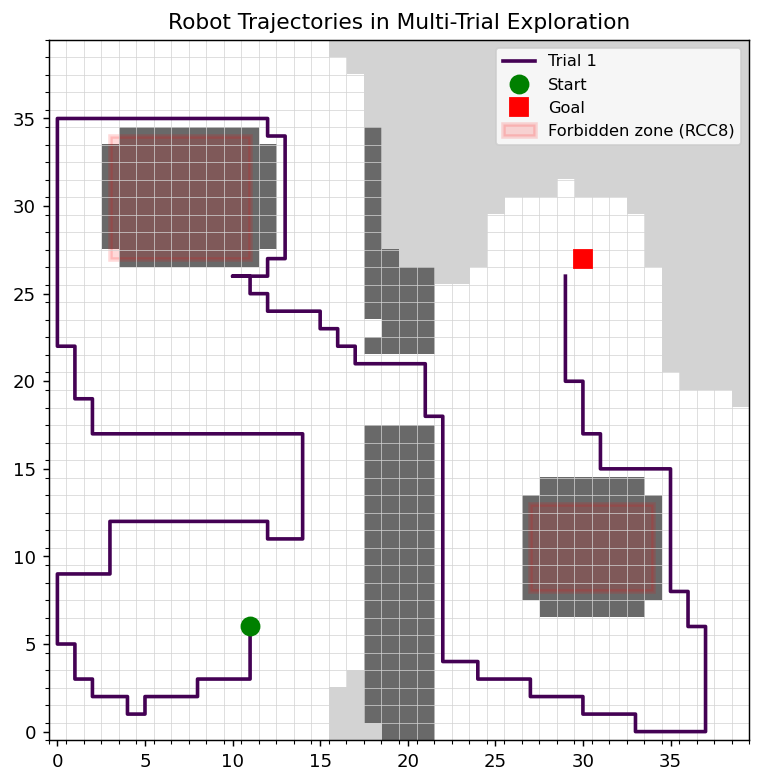
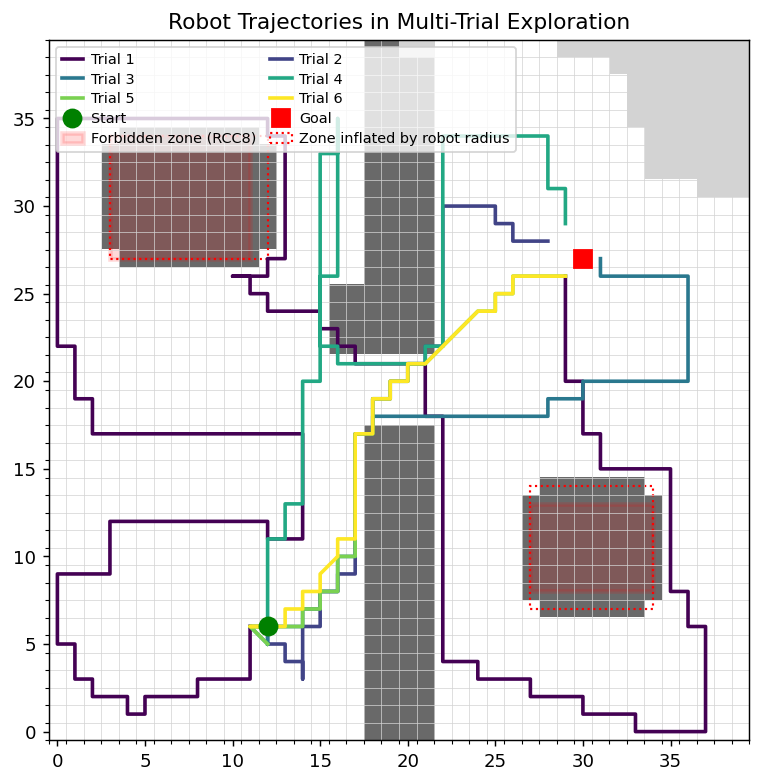
update some code and image and experimental data

diff --git a/Dissertation coding files/10.A*_penaltyFunction.py b/Dissertation coding files/10.A*_penaltyFunction.py
@@ -256,7 +256,7 @@ def planning_map(known_map, forbidden_mask=None, temp_obstacle=None):
         m[temp_obstacle == 1] = OCCUPIED
     return m
 
-PUSH_PENALTY = 0 # extra cost for pushing a movable object(means more 15 grid cells)
+PUSH_PENALTY = 3 # extra cost for pushing a movable object(means more 15 grid cells)
 cost_map = np.zeros((H, W)) # cost map for A* planning, default 0 for free space
 
 # ---------- robot pathfinding plan ----------
@@ -414,9 +414,9 @@ for trial in range(1, NUM_TRIALS + 1):
                             temp_obstacle[rr, cc] = 1 
                     print(f">>> MOVABLE_BOX is not pushable, pass around")
                 judged_objects.add("MOVABLE_BOX")  # mark as judged
-                print(f"path length (cells) = {len(new_path)}")
-                passes_box = any(cost_map[r, c] > 0 for (c, r) in new_path)
-                print(f"path passes through box (push it?) {passes_box}")
+                # print(f"path length (cells) = {len(new_path)}")
+                # passes_box = any(cost_map[r, c] > 0 for (c, r) in new_path)
+                # print(f"path passes through box (push it?) {passes_box}")
                 waypoints = []          # empty the old exploration path, force replanning towards the target
         # ---- monitor RCC8 relation in real-time ----
         robot_fp = Point(ep[0], ep[1]).buffer(ROBOT_RADIUS)
@@ -464,6 +464,14 @@ for trial in range(1, NUM_TRIALS + 1):
                 waypoints = [grid_to_world(c, r) for (c, r) in new_path]
                 wp_index = 1 if len(waypoints) > 1 else 0
                 replan_count += 1
+                # --- penalty decision statistics ---
+                if "MOVABLE_BOX" in judged_objects and goal_found:
+                    n = sum(1 for (c, r) in new_path if cost_map[r, c] > 0)
+                    decision = "PUSH" if n > 0 else "DETOUR"
+                    L = sum(math.hypot(new_path[i+1][0]-new_path[i][0],new_path[i+1][1]-new_path[i][1])
+                            for i in range(len(new_path)-1))
+                    print(f"[penalty={PUSH_PENALTY}] cells={len(new_path)},"
+                          f"geometric length={L:.2f}, n={n}, decision={decision}")
 
         # ---- judge whether goal is reached ----
         if goal_found:
@@ -509,16 +517,38 @@ for trial in range(1, NUM_TRIALS + 1):
         f.write(f"path length: {path_len:.3f}\t replan count: {replan_count}\n")
     print(f">>> Trial {trial}: path {path_len:.2f} m, replanned {replan_count}, memory saved to {MEMORY_PATH}.")
 
+# ---- Plan twice with different penalties for comparison ----
+def plan_with_penalty(P):
+    cm = np.zeros((H, W))
+    for rr in range(max(0, r_min), min(H, r_max + 1)):
+        for cc in range(max(0, c_min), min(W, c_max + 1)):
+            cm[rr, cc] = P
+    p = astar(planning_map(known_map), start, goal, cm)
+    L = sum(math.hypot(p[i+1][0]-p[i][0], p[i+1][1]-p[i][1])
+            for i in range(len(p)-1))
+    n = sum(1 for (c, r) in p if cm[r, c] > 0)
+    return p, L, n
+
+path_lo, L_lo, n_lo = plan_with_penalty(3.0)
+path_hi, L_hi, n_hi = plan_with_penalty(3.5)
+print(f"P=3.0: length={L_lo:.2f}, n={n_lo}")
+print(f"P=3.5: length={L_hi:.2f}, n={n_hi}")
+
 # ---------- export grid PNG ----------
 fig, ax = plt.subplots(figsize=(7, 7))
 cmap = matplotlib.colors.ListedColormap(["lightgray", "white", "dimgray"]) # three colors for unknown, free, occupied
 ax.imshow(known_map + 1, origin="lower", cmap=cmap, vmin=0, vmax=2)
 # robot trajectory(solid line)
 colors = plt.cm.viridis(np.linspace(0, 1, len(all_trajectory)))
-for i, traj in enumerate(all_trajectory):
-    g = [world_to_grid(p[0], p[1]) for p in traj]
-    ax.plot([p[0] for p in g], [p[1] for p in g],
-            "-", color=colors[i], linewidth=2, label=f"Trial {i+1}")
+# for i, traj in enumerate(all_trajectory):
+#     g = [world_to_grid(p[0], p[1]) for p in traj]
+#     ax.plot([p[0] for p in g], [p[1] for p in g],
+#             "-", color=colors[i], linewidth=2, label=f"Trial {i+1}")
+for p, col, ls, lab in [
+        (path_lo, "#1f4e79", "-",  f"$Penalty = 3.0$  (push, $L$ = {L_lo:.1f})"),
+        (path_hi, "#c00000", "--", f"$Penalty = 3.5$  (detour, $L$ = {L_hi:.1f})")]:
+    ax.plot([c for (c, r) in p], [r for (c, r) in p],
+            ls, color=col, linewidth=2, label=lab)
 # grid line for each box
 ax.set_xticks(np.arange(-0.5, W, 1), minor=True)
 ax.set_yticks(np.arange(-0.5, H, 1), minor=True)
@@ -544,9 +574,6 @@ ax.add_patch(MplPolygon(mb_corners_grid, closed=True,
                         label="Door"))
 ax.plot(sc, sr, "go", markersize=10, label="Start")
 ax.plot(gc, gr, "rs", markersize=10, label="Goal")
-ax.text(0.98, 0.02, f"penalty={PUSH_PENALTY}", fontsize=9, 
-        transform=ax.transAxes, ha="right", va="bottom", color="black",
-        bbox=dict(boxstyle="round", facecolor="white", alpha=0.5))
 # forbidden zone (solid line)
 for i, zone in enumerate(FORBIDDEN_ZONES):
     zone_world = list(zone.exterior.coords)
@@ -555,8 +582,16 @@ for i, zone in enumerate(FORBIDDEN_ZONES):
                             facecolor="red", alpha=0.15,
                             edgecolor="red", linewidth=2.5,
                             label="Forbidden zone (RCC8)" if i == 0 else None))
-
+for i, zone in enumerate(FORBIDDEN_ZONES):
+    infl = list(zone.buffer(ROBOT_RADIUS).exterior.coords)
+    infl_grid = [world_to_grid(x, y) for x, y in infl]
+    ax.add_patch(MplPolygon(infl_grid, closed=True,
+                            facecolor="none",
+                            edgecolor="red", linewidth=1.2,
+                            linestyle=":",
+                            label="Zone inflated by robot radius" if i == 0 else None))
+                            
 ax.legend(loc="upper left", fontsize=9)
-ax.set_title("A* algorithm with Penalty")
+ax.set_title("Decision making with Penalty")
 plt.savefig("robot_astar_with_penalty.png", dpi=130, bbox_inches="tight")
 print(">>> exported robot_astar_with_penalty.png")

diff --git a/Webots_project/controllers/Astar_with_Penalty/Astar_with_Penalty.py b/Webots_project/controllers/Astar_with_Penalty/Astar_with_Penalty.py
@@ -256,7 +256,7 @@ def planning_map(known_map, forbidden_mask=None, temp_obstacle=None):
         m[temp_obstacle == 1] = OCCUPIED
     return m
 
-PUSH_PENALTY = 0 # extra cost for pushing a movable object(means more 15 grid cells)
+PUSH_PENALTY = 3 # extra cost for pushing a movable object(means more 15 grid cells)
 cost_map = np.zeros((H, W)) # cost map for A* planning, default 0 for free space
 
 # ---------- robot pathfinding plan ----------
@@ -414,9 +414,9 @@ for trial in range(1, NUM_TRIALS + 1):
                             temp_obstacle[rr, cc] = 1 
                     print(f">>> MOVABLE_BOX is not pushable, pass around")
                 judged_objects.add("MOVABLE_BOX")  # mark as judged
-                print(f"path length (cells) = {len(new_path)}")
-                passes_box = any(cost_map[r, c] > 0 for (c, r) in new_path)
-                print(f"path passes through box (push it?) {passes_box}")
+                # print(f"path length (cells) = {len(new_path)}")
+                # passes_box = any(cost_map[r, c] > 0 for (c, r) in new_path)
+                # print(f"path passes through box (push it?) {passes_box}")
                 waypoints = []          # empty the old exploration path, force replanning towards the target
         # ---- monitor RCC8 relation in real-time ----
         robot_fp = Point(ep[0], ep[1]).buffer(ROBOT_RADIUS)
@@ -464,6 +464,14 @@ for trial in range(1, NUM_TRIALS + 1):
                 waypoints = [grid_to_world(c, r) for (c, r) in new_path]
                 wp_index = 1 if len(waypoints) > 1 else 0
                 replan_count += 1
+                # --- penalty decision statistics ---
+                if "MOVABLE_BOX" in judged_objects and goal_found:
+                    n = sum(1 for (c, r) in new_path if cost_map[r, c] > 0)
+                    decision = "PUSH" if n > 0 else "DETOUR"
+                    L = sum(math.hypot(new_path[i+1][0]-new_path[i][0],new_path[i+1][1]-new_path[i][1])
+                            for i in range(len(new_path)-1))
+                    print(f"[penalty={PUSH_PENALTY}] cells={len(new_path)},"
+                          f"geometric length={L:.2f}, n={n}, decision={decision}")
 
         # ---- judge whether goal is reached ----
         if goal_found:
@@ -509,16 +517,38 @@ for trial in range(1, NUM_TRIALS + 1):
         f.write(f"path length: {path_len:.3f}\t replan count: {replan_count}\n")
     print(f">>> Trial {trial}: path {path_len:.2f} m, replanned {replan_count}, memory saved to {MEMORY_PATH}.")
 
+# ---- Plan twice with different penalties for comparison ----
+def plan_with_penalty(P):
+    cm = np.zeros((H, W))
+    for rr in range(max(0, r_min), min(H, r_max + 1)):
+        for cc in range(max(0, c_min), min(W, c_max + 1)):
+            cm[rr, cc] = P
+    p = astar(planning_map(known_map), start, goal, cm)
+    L = sum(math.hypot(p[i+1][0]-p[i][0], p[i+1][1]-p[i][1])
+            for i in range(len(p)-1))
+    n = sum(1 for (c, r) in p if cm[r, c] > 0)
+    return p, L, n
+
+path_lo, L_lo, n_lo = plan_with_penalty(3.0)
+path_hi, L_hi, n_hi = plan_with_penalty(3.5)
+print(f"P=3.0: length={L_lo:.2f}, n={n_lo}")
+print(f"P=3.5: length={L_hi:.2f}, n={n_hi}")
+
 # ---------- export grid PNG ----------
 fig, ax = plt.subplots(figsize=(7, 7))
 cmap = matplotlib.colors.ListedColormap(["lightgray", "white", "dimgray"]) # three colors for unknown, free, occupied
 ax.imshow(known_map + 1, origin="lower", cmap=cmap, vmin=0, vmax=2)
 # robot trajectory(solid line)
 colors = plt.cm.viridis(np.linspace(0, 1, len(all_trajectory)))
-for i, traj in enumerate(all_trajectory):
-    g = [world_to_grid(p[0], p[1]) for p in traj]
-    ax.plot([p[0] for p in g], [p[1] for p in g],
-            "-", color=colors[i], linewidth=2, label=f"Trial {i+1}")
+# for i, traj in enumerate(all_trajectory):
+#     g = [world_to_grid(p[0], p[1]) for p in traj]
+#     ax.plot([p[0] for p in g], [p[1] for p in g],
+#             "-", color=colors[i], linewidth=2, label=f"Trial {i+1}")
+for p, col, ls, lab in [
+        (path_lo, "#1f4e79", "-",  f"$Penalty = 3.0$  (push, $L$ = {L_lo:.1f})"),
+        (path_hi, "#c00000", "--", f"$Penalty = 3.5$  (detour, $L$ = {L_hi:.1f})")]:
+    ax.plot([c for (c, r) in p], [r for (c, r) in p],
+            ls, color=col, linewidth=2, label=lab)
 # grid line for each box
 ax.set_xticks(np.arange(-0.5, W, 1), minor=True)
 ax.set_yticks(np.arange(-0.5, H, 1), minor=True)
@@ -544,9 +574,6 @@ ax.add_patch(MplPolygon(mb_corners_grid, closed=True,
                         label="Door"))
 ax.plot(sc, sr, "go", markersize=10, label="Start")
 ax.plot(gc, gr, "rs", markersize=10, label="Goal")
-ax.text(0.98, 0.02, f"penalty={PUSH_PENALTY}", fontsize=9, 
-        transform=ax.transAxes, ha="right", va="bottom", color="black",
-        bbox=dict(boxstyle="round", facecolor="white", alpha=0.5))
 # forbidden zone (solid line)
 for i, zone in enumerate(FORBIDDEN_ZONES):
     zone_world = list(zone.exterior.coords)
@@ -555,8 +582,16 @@ for i, zone in enumerate(FORBIDDEN_ZONES):
                             facecolor="red", alpha=0.15,
                             edgecolor="red", linewidth=2.5,
                             label="Forbidden zone (RCC8)" if i == 0 else None))
-
+for i, zone in enumerate(FORBIDDEN_ZONES):
+    infl = list(zone.buffer(ROBOT_RADIUS).exterior.coords)
+    infl_grid = [world_to_grid(x, y) for x, y in infl]
+    ax.add_patch(MplPolygon(infl_grid, closed=True,
+                            facecolor="none",
+                            edgecolor="red", linewidth=1.2,
+                            linestyle=":",
+                            label="Zone inflated by robot radius" if i == 0 else None))
+                            
 ax.legend(loc="upper left", fontsize=9)
-ax.set_title("A* algorithm with Penalty")
+ax.set_title("Decision making with Penalty")
 plt.savefig("robot_astar_with_penalty.png", dpi=130, bbox_inches="tight")
 print(">>> exported robot_astar_with_penalty.png")

diff --git a/Webots_project/controllers/navigator_withRCC8(without_obstacle)/navigator_withRCC8(without_obstacle).py b/Webots_project/controllers/navigator_withRCC8(without_obstacle)/navigator_withRCC8(without_obstacle).py
@@ -237,19 +237,19 @@ while robot.step(timestep) != -1:
                                         linestyle=":",
                                         label="Zone inflated by robot radius" if i == 0 else None))
 
-            # 2. A* 规划的路径(蓝色虚线)
-            wp_x = [p[0] for p in waypoints]
-            wp_y = [p[1] for p in waypoints]
-            ax.plot(wp_x, wp_y, "b--", linewidth=1.5,
-                    marker="o", markersize=4, label="A* planned path")
+            # # 2. A* 规划的路径(蓝色虚线)
+            # wp_x = [p[0] for p in waypoints]
+            # wp_y = [p[1] for p in waypoints]
+            # ax.plot(wp_x, wp_y, "b--", linewidth=1.5,
+            #         marker="o", markersize=4, label="A* planned path")
 
-            # 2b. BFS 规划的路径(橙色点划线),和 A* 叠在同一张图上对比
-            if bfs_waypoints:
-                bfs_x = [p[0] for p in bfs_waypoints]
-                bfs_y = [p[1] for p in bfs_waypoints]
-                ax.plot(bfs_x, bfs_y, color="orange", linestyle="-.",
-                        linewidth=1.5, marker="^", markersize=4,
-                        label="BFS planned path")
+            # # 2b. BFS 规划的路径(橙色点划线),和 A* 叠在同一张图上对比
+            # if bfs_waypoints:
+            #     bfs_x = [p[0] for p in bfs_waypoints]
+            #     bfs_y = [p[1] for p in bfs_waypoints]
+            #     ax.plot(bfs_x, bfs_y, color="orange", linestyle="-.",
+            #             linewidth=1.5, marker="^", markersize=4,
+            #             label="BFS planned path")
 
             # 3. 机器人实际轨迹(实线)
             tr_x = [p[0] for p in trajectory]
@@ -273,24 +273,24 @@ while robot.step(timestep) != -1:
             ax.grid(True, linestyle=":", alpha=0.5)
             ax.set_xlabel("x (m)")
             ax.set_ylabel("y (m)")
-            ax.set_title("A* vs BFS planned paths (robot avoids forbidden zone)")
+            ax.set_title("Robot avoids forbidden zone")
             ax.legend(loc="upper left", fontsize=9)
 
             # 5. 对比数据文本框(长度用米,expanded 才是搜索效率指标)
-            stat_lines = []
-            for name in ("A*", "BFS"):
-                r = comparison.get(name)
-                if r and r["path"] is not None:
-                    stat_lines.append(
-                        f"{name}: {r['length_m']:.3f} m | "
-                        f"{r['path_nodes']} nodes | "
-                        f"{r['time']*1000:.2f} ms | "
-                        f"expanded {r['expanded']}")
-            if stat_lines:
-                ax.text(0.98, 0.02, "\n".join(stat_lines),
-                        transform=ax.transAxes, fontsize=9,
-                        ha="right", va="bottom", family="monospace",
-                        bbox=dict(boxstyle="round", facecolor="white", alpha=0.8))
+            # stat_lines = []
+            # for name in ("A*", "BFS"):
+            #     r = comparison.get(name)
+            #     if r and r["path"] is not None:
+            #         stat_lines.append(
+            #             f"{name}: {r['length_m']:.3f} m | "
+            #             f"{r['path_nodes']} nodes | "
+            #             f"{r['time']*1000:.2f} ms | "
+            #             f"expanded {r['expanded']}")
+            # if stat_lines:
+            #     ax.text(0.98, 0.02, "\n".join(stat_lines),
+            #             transform=ax.transAxes, fontsize=9,
+            #             ha="right", va="bottom", family="monospace",
+            #             bbox=dict(boxstyle="round", facecolor="white", alpha=0.8))
 
             plt.savefig("avoids_forbiddenZone_path.png", dpi=150, bbox_inches="tight")
             print(">>> exported avoids_forbiddenZone_path.png")

diff --git a/Webots_project/controllers/detect_movable_object/detect_movable_object.py b/Webots_project/controllers/detect_movable_object/detect_movable_object.py
@@ -10,6 +10,7 @@ import matplotlib.pyplot as plt
 from matplotlib.patches import Polygon as MplPolygon
 from shapely.geometry import Point, Polygon, box
 from collections import deque
+import itertools
 
 robot = Supervisor()
 timestep = int(robot.getBasicTimeStep())
@@ -226,8 +227,8 @@ def has_push_space(obj_pos, push_dir, known_map):
     probe_x = obj_pos[0] + push_dir[0] * 0.15
     probe_y = obj_pos[1] + push_dir[1] * 0.15
     c, r = world_to_grid(probe_x, probe_y)
-    if not (0 <= c < W and 0 <= r < H): #judge by DC relation
-        return False                    # out of grid, no space to push
+    if not (0 <= c < W and 0 <= r < H): # out of grid, no space to push
+        return False                    
     return known_map[r, c] != OCCUPIED
 
 # --------- fully judgement of movable detection: mass + push space ---------
@@ -341,7 +342,7 @@ def reset_robot(x, y):
 # ------------------------ multi-trial loop ----------------------------
 ep = epuck.getPosition()
 START_X, START_Y = ep[0], ep[1]
-NUM_TRIALS = 1
+NUM_TRIALS = 6
 all_trajectory = [] # to record all trials' trajectory for plotting comparison
 rcc8_log = []
 
@@ -545,8 +546,22 @@ for i, zone in enumerate(FORBIDDEN_ZONES):
                             facecolor="red", alpha=0.15,
                             edgecolor="red", linewidth=2.5,
                             label="Forbidden zone (RCC8)" if i == 0 else None))
+for i, zone in enumerate(FORBIDDEN_ZONES):
+    infl = list(zone.buffer(ROBOT_RADIUS).exterior.coords)
+    infl_grid = [world_to_grid(x, y) for x, y in infl]
+    ax.add_patch(MplPolygon(infl_grid, closed=True,
+                            facecolor="none",
+                            edgecolor="red", linewidth=1.2,
+                            linestyle=":",
+                            label="Zone inflated by robot radius" if i == 0 else None))
+def flip(items, ncol):
+    return list(itertools.chain(*[items[i::ncol] for i in range(ncol)]))
 
-ax.legend(loc="upper right", fontsize=9)
+handles, labels = ax.get_legend_handles_labels()
+ncol = 2
+ax.legend(flip(handles, ncol), flip(labels, ncol), loc="upper left",
+          fontsize=8, ncol=ncol, columnspacing=1.0, handletextpad=0.5,
+          handlelength=1.5, labelspacing=0.4)
 ax.set_title("Robot Trajectories in Multi-Trial Exploration")
 plt.savefig("robot_multi_trial_with_forbidden_zones.png", dpi=130, bbox_inches="tight")
 print(">>> exported robot_multi_trial_with_forbidden_zones.png")

diff --git a/Dissertation coding files/9.detect_movable_object.py b/Dissertation coding files/9.detect_movable_object.py
@@ -10,6 +10,7 @@ import matplotlib.pyplot as plt
 from matplotlib.patches import Polygon as MplPolygon
 from shapely.geometry import Point, Polygon, box
 from collections import deque
+import itertools
 
 robot = Supervisor()
 timestep = int(robot.getBasicTimeStep())
@@ -341,7 +342,7 @@ def reset_robot(x, y):
 # ------------------------ multi-trial loop ----------------------------
 ep = epuck.getPosition()
 START_X, START_Y = ep[0], ep[1]
-NUM_TRIALS = 1
+NUM_TRIALS = 6
 all_trajectory = [] # to record all trials' trajectory for plotting comparison
 rcc8_log = []
 
@@ -545,8 +546,22 @@ for i, zone in enumerate(FORBIDDEN_ZONES):
                             facecolor="red", alpha=0.15,
                             edgecolor="red", linewidth=2.5,
                             label="Forbidden zone (RCC8)" if i == 0 else None))
+for i, zone in enumerate(FORBIDDEN_ZONES):
+    infl = list(zone.buffer(ROBOT_RADIUS).exterior.coords)
+    infl_grid = [world_to_grid(x, y) for x, y in infl]
+    ax.add_patch(MplPolygon(infl_grid, closed=True,
+                            facecolor="none",
+                            edgecolor="red", linewidth=1.2,
+                            linestyle=":",
+                            label="Zone inflated by robot radius" if i == 0 else None))
+def flip(items, ncol):
+    return list(itertools.chain(*[items[i::ncol] for i in range(ncol)]))
 
-ax.legend(loc="upper right", fontsize=9)
+handles, labels = ax.get_legend_handles_labels()
+ncol = 2
+ax.legend(flip(handles, ncol), flip(labels, ncol), loc="upper left",
+          fontsize=8, ncol=ncol, columnspacing=1.0, handletextpad=0.5,
+          handlelength=1.5, labelspacing=0.4)
 ax.set_title("Robot Trajectories in Multi-Trial Exploration")
 plt.savefig("robot_multi_trial_with_forbidden_zones.png", dpi=130, bbox_inches="tight")
 print(">>> exported robot_multi_trial_with_forbidden_zones.png")
